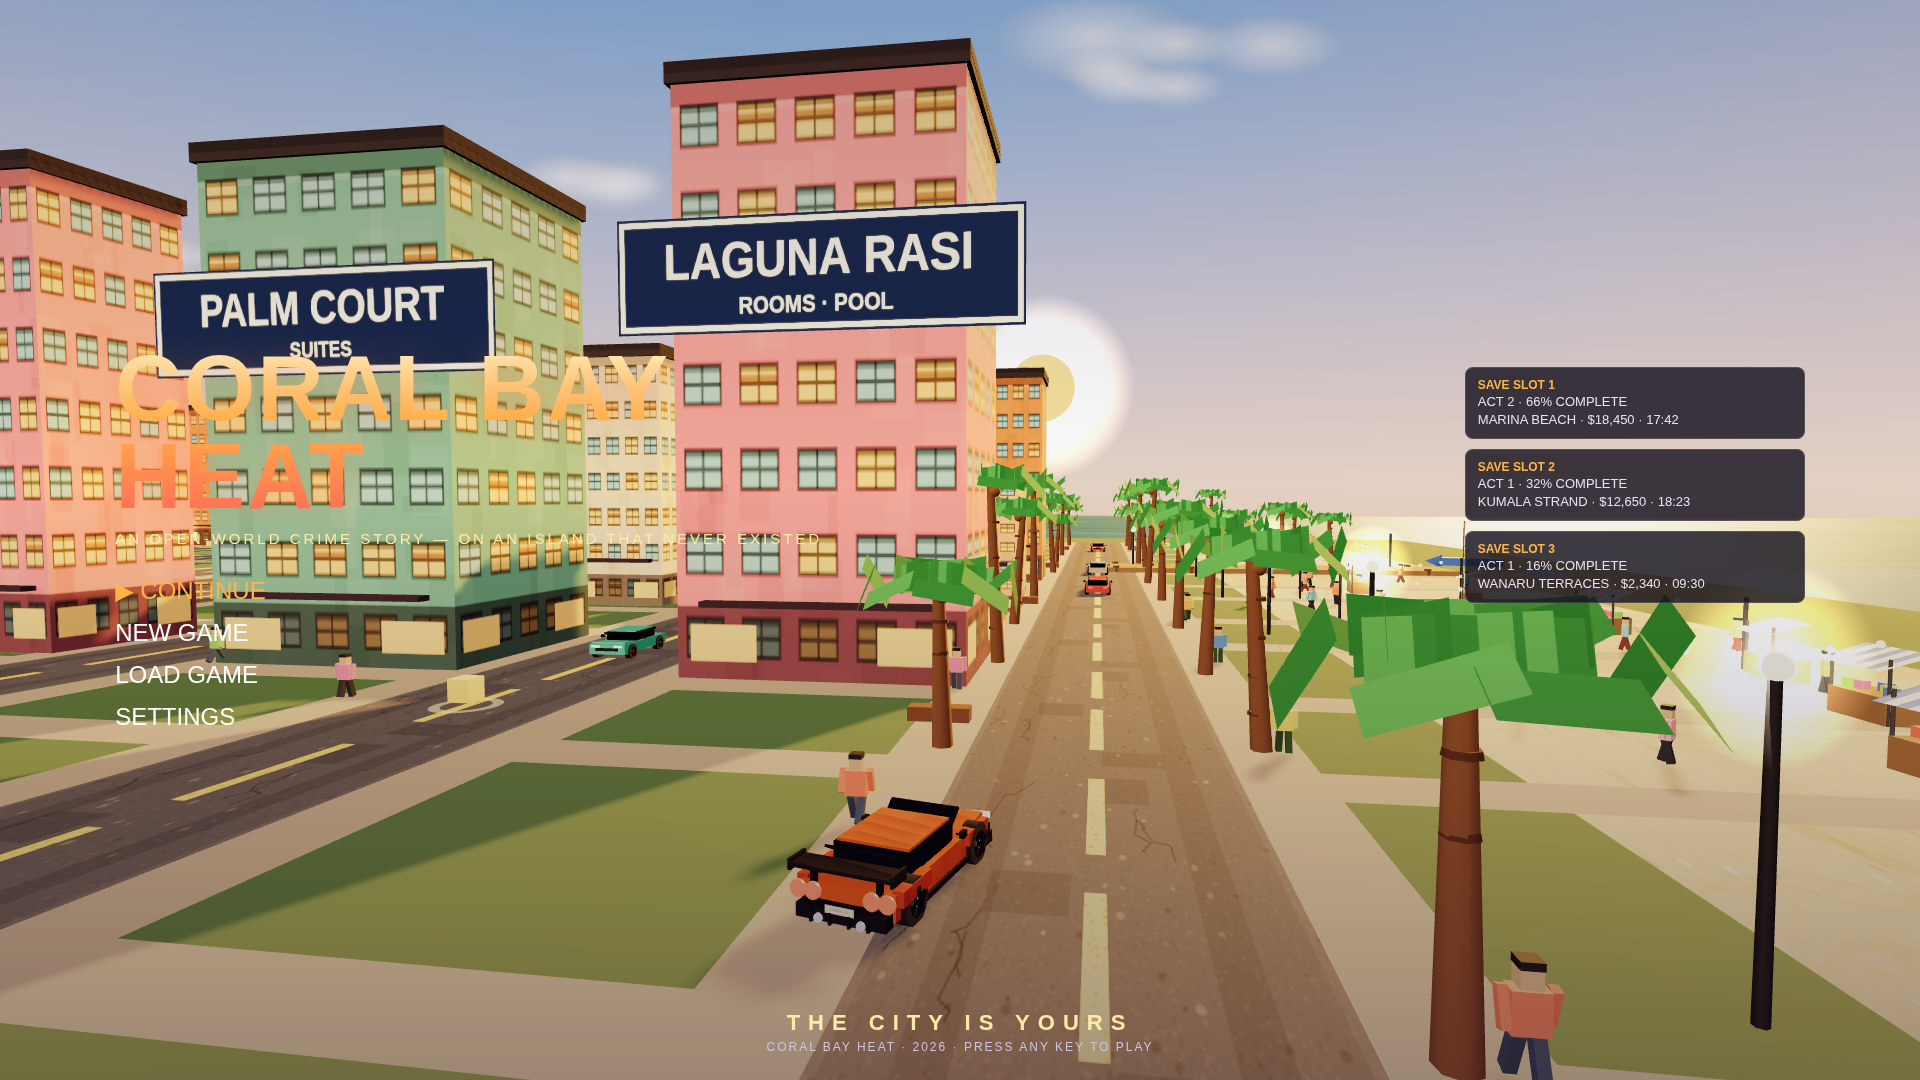
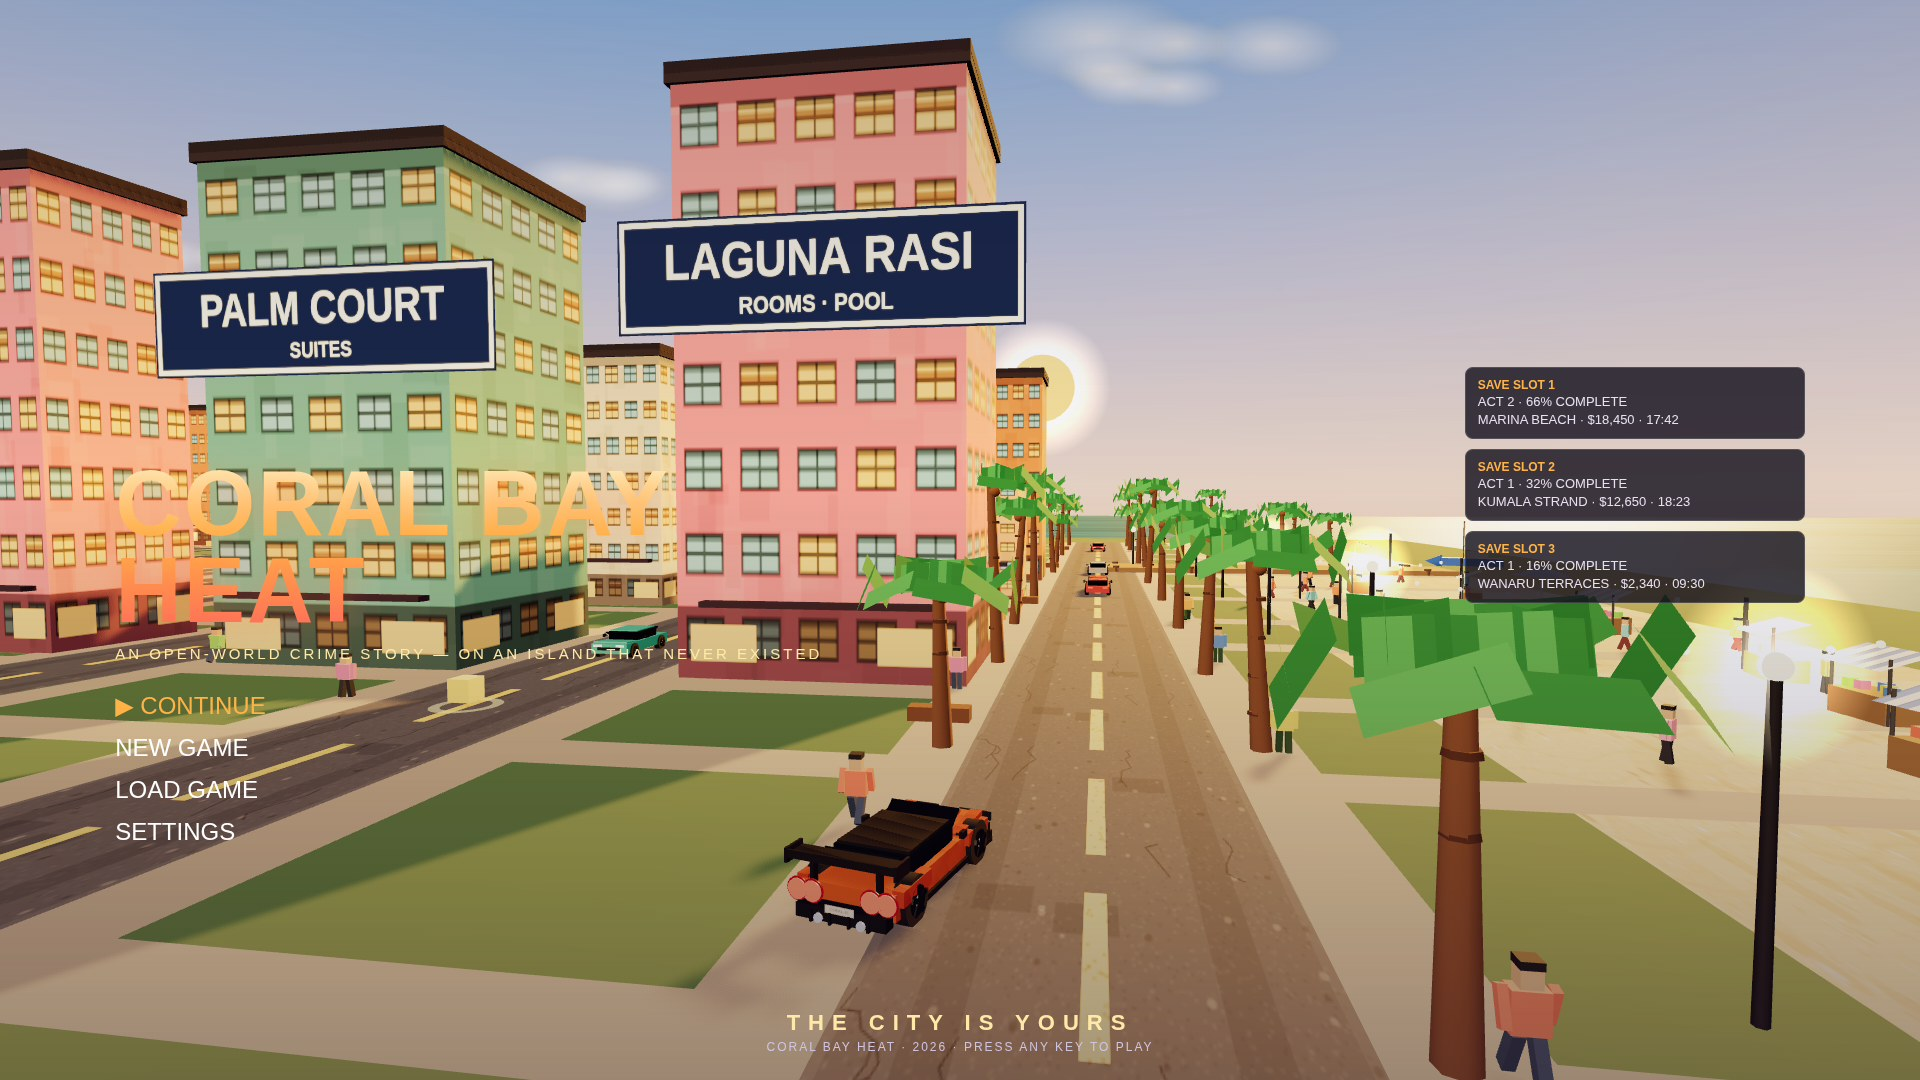
fix8: shootout exposure down, title clear of PALM COURT, GT black roof + wing, pistol/tracer visible, white Bell 206 heli

diff --git a/game/src/game.js b/game/src/game.js
@@ -184,12 +184,15 @@ export class Game {
     // plus a target ring at the impact point. A THREE.Line is one
     // pixel wide and reads as nothing at 1920 px; a beam with a
     // visible width and a ring at the end reads as a shot fired.
+    // Round 8: the beam is thicker still (core 0.22, glow 0.55)
+    // and the flash is bigger (2.2 m) — in fix7 the frame was
+    // captured mid-washout and the shot read as nothing at all.
     // The cylinders are unit height along Y and get scaled and
     // aimed from the muzzle to the impact point each time shoot()
     // fires; the group keeps the same .visible / timer interface
     // the update loop and the playtest already rely on.
     this.flash = new THREE.Mesh(
-      new THREE.PlaneGeometry(1.5, 1.5),
+      new THREE.PlaneGeometry(2.2, 2.2),
       new THREE.MeshBasicMaterial({
         map: glowTexture('rgba(255,250,200,1)', 'rgba(255,180,60,0.6)'),
         transparent: true, blending: THREE.AdditiveBlending, depthWrite: false,
@@ -201,10 +204,10 @@ export class Game {
       new THREE.CylinderGeometry(r, r, 1, 10),
       new THREE.MeshBasicMaterial({ color, transparent: true, opacity, blending: THREE.AdditiveBlending, depthWrite: false }),
     );
-    const beamCore = beamPart(0.14, 0xfff6c0, 0.98);
-    const beamGlow = beamPart(0.36, 0xffd34d, 0.5);
+    const beamCore = beamPart(0.22, 0xfff6c0, 0.98);
+    const beamGlow = beamPart(0.55, 0xffd34d, 0.55);
     const targetRing = new THREE.Mesh(
-      new THREE.RingGeometry(0.4, 0.58, 24),
+      new THREE.RingGeometry(0.55, 0.78, 24),
       new THREE.MeshBasicMaterial({ color: 0xff6a2a, transparent: true, opacity: 0.95, side: THREE.DoubleSide, depthWrite: false }),
     );
     this.tracer = new THREE.Group();
@@ -226,7 +229,7 @@ export class Game {
     this.flames = new THREE.Group();
     const flameTex = flameTexture();
     const flameSets = [
-      { n: 5, w: 1.5, h: 3.4, x: 0.55, z: 0.7, tint: 0xffe14d },
+      { n: 5, w: 1.5, h: 3.4, x: 0.55, z: 0.7, tint: 0xffb81a },
       { n: 6, w: 1.8, h: 2.8, x: 0.85, z: 1.1, tint: 0xff7a1a },
       { n: 5, w: 2.1, h: 2.3, x: 1.1, z: 1.4, tint: 0xe83a10 },
     ];
@@ -267,14 +270,17 @@ export class Game {
       new THREE.PlaneGeometry(9, 9),
       new THREE.MeshBasicMaterial({
         map: glowTexture('rgba(255,200,90,0.95)', 'rgba(255,110,20,0.4)'),
-        transparent: true, blending: THREE.AdditiveBlending, depthWrite: false,
+        transparent: true, opacity: 0.5, blending: THREE.AdditiveBlending, depthWrite: false,
       }),
     );
     fireGlow.rotation.x = -Math.PI / 2;
     fireGlow.position.y = 0.4;
     this.flames.add(fireGlow);
-    // an orange light that flickers with the fire and lights the Ranger
-    const fireLight = new THREE.PointLight(0xff7a1a, 80, 22, 1.5);
+    // an orange light that flickers with the fire and lights the Ranger.
+    // Intensity 45, not 80: at 80 the fire's light + glow + the beam
+    // pool + the bright sand stacked into a white washout in the
+    // shootout — the fire should light the scene, not erase it.
+    const fireLight = new THREE.PointLight(0xff7a1a, 45, 22, 1.5);
     fireLight.position.set(0, 2.2, 0.4);
     this.flames.add(fireLight);
     this.flames.userData.fireLight = fireLight;
@@ -509,7 +515,12 @@ export class Game {
     }
     if (this.tracerTimer > 0) {
       this.tracerTimer -= dt;
-      if (this.tracerTimer <= 0) { this.tracer.visible = false; this.flash.visible = false; }
+      // holdTracer: the staged shootout shot freezes one shot in the
+      // air for the capture — the loop must NOT fade it, and
+      // _autoFight must NOT re-fire over it (see placeShootoutScene).
+      // Only the staged shot sets this flag; normal play and the
+      // playtest never touch it, so their tracer timing is unchanged.
+      if (this.tracerTimer <= 0 && !this.holdTracer) { this.tracer.visible = false; this.flash.visible = false; }
     }
     // state snapshot for the playtest
     const pos = this.vehicle === 'boat' ? this.boat : this.vehicle === 'foot' ? this.foot : this.car;
@@ -1069,6 +1080,12 @@ export class Game {
         this.damage(1, true);
       }
     }
+    // holdTracer: the staged shootout shot already froze one shot in
+    // the air for the capture — do NOT re-fire over it, or shoot()
+    // resets tracerTimer to 0.09 and the frozen shot fades before
+    // the frame is taken (that is why fix7's shootout showed no
+    // tracer, pistol or flash at all).
+    if (this.holdTracer) return;
     if (this.fightTimer <= 0) {
       this.fightTimer = 0.55;
       this.shoot(best);
@@ -1403,20 +1420,31 @@ export class Game {
       [[106, -14], [106, 6], [106, -2], [106, 16]],
       [[112, -16], [120, -14], [126, -12], [104, 20], [130, 20], [128, 2], [116, -20], [124, 20]],
     );
-    // freeze one shot in the air: aim at the nearest officer, fire, then
-    // hold the tracer + muzzle flash on for the capture — the loop would
-    // fade them in 0.09 s otherwise, and the frame would show no shot
+    // freeze one shot in the air: aim at the officer most directly
+    // AHEAD of the player (smallest |dx|, not the nearest) and fire,
+    // then hold the tracer + muzzle flash on for the capture — the
+    // loop would fade them in 0.09 s otherwise, and the frame would
+    // show no shot. The nearest officer is (123, 1), off to the
+    // player's right — aiming at him sent the tracer sideways across
+    // the frame to the edge, so fix8's shot read as a white bar, not
+    // a shot fired into the scene. The officer at (119, -7) is
+    // straight ahead, so the beam goes forward into the frame and
+    // the muzzle flash sits by the player's gun, both readable.
+    // holdTracer pins them on AND stops _autoFight re-firing over the
+    // frozen shot during the settle frames (each re-fire reset the
+    // timer to 0.09 s, so fix7's capture showed no shot at all).
     const alive = this.officers.filter((o) => !o.down && o.mesh.visible);
     if (alive.length) {
       let best = alive[0], bd = Infinity;
       for (const o of alive) {
-        const d = Math.hypot(o.x - this.foot.x, o.z - this.foot.z);
+        const d = Math.abs(o.x - this.foot.x);
         if (d < bd) { bd = d; best = o; }
       }
       this.foot.heading = Math.atan2(best.x - this.foot.x, best.z - this.foot.z);
       this.playerMesh.rotation.y = this.foot.heading;
       this.shoot(best);
       this.tracerTimer = 3600;
+      this.holdTracer = true;
     }
     // heli high over the officers, beam down among them — its whole
     // body in clean sky in the top of the frame, not tangled in palm

diff --git a/game/src/cars.js b/game/src/cars.js
@@ -183,9 +183,15 @@ export function makeHeroCar() {
   // lower body: long, low, wide — the GT stance
   g.add(box(2.0, 0.5, 4.4, orange, 0, 0.55, 0));
   // sloped hood, falling toward the nose, with a power bulge down
-  // the centre so the hood has shape instead of a flat slab
+  // the centre so the hood has shape instead of a flat slab.
+  // Round 8: the bulge is wider and taller, and fender bulges run
+  // down each hood edge — the flat slab hood is what made the car
+  // read as a wedge from the front. Sculpted fenders + a raised
+  // centre give the nose the GT-R's muscular shape.
   g.add(box(1.9, 0.08, 1.3, orange, 0, 0.84, 1.5, -0.1));
-  g.add(box(0.85, 0.07, 1.0, orange, 0, 0.9, 1.45, -0.1));
+  g.add(box(1.0, 0.1, 1.0, orange, 0, 0.92, 1.45, -0.1));
+  g.add(box(0.28, 0.09, 1.25, orangeDark, -0.82, 0.88, 1.5, -0.1));
+  g.add(box(0.28, 0.09, 1.25, orangeDark, 0.82, 0.88, 1.5, -0.1));
   // nose / front bumper with a black lower splitter
   g.add(box(2.05, 0.32, 0.4, orange, 0, 0.42, 2.25));
   g.add(box(2.1, 0.1, 0.5, dark, 0, 0.22, 2.28));
@@ -196,10 +202,14 @@ export function makeHeroCar() {
   g.add(box(1.5, 0.2, 0.06, dark, 0, 0.58, 2.46));
   g.add(box(1.7, 0.12, 0.06, dark, 0, 0.34, 2.46));
   // angular swept headlights: wide, bright, angled back toward the
-  // fenders like the real GT-R's — not flat white rectangles
-  const hlL = lamp(0.68, 0.14, 0.06, 0xfff2c0, -0.66, 0.76, 2.46);
+  // fenders like the real GT-R's — not flat white rectangles. Each
+  // sits in a black bezel so the light reads as an inset lamp, not
+  // a white blob pasted on the nose.
+  g.add(box(0.78, 0.2, 0.04, dark, -0.66, 0.76, 2.44));
+  g.add(box(0.78, 0.2, 0.04, dark, 0.66, 0.76, 2.44));
+  const hlL = lamp(0.68, 0.14, 0.06, 0xfff2c0, -0.66, 0.76, 2.47);
   hlL.rotation.y = 0.18;
-  const hlR = lamp(0.68, 0.14, 0.06, 0xfff2c0, 0.66, 0.76, 2.46);
+  const hlR = lamp(0.68, 0.14, 0.06, 0xfff2c0, 0.66, 0.76, 2.47);
   hlR.rotation.y = -0.18;
   g.add(hlL, hlR);
   // LED daytime strips under the headlights
@@ -215,28 +225,40 @@ export function makeHeroCar() {
   g.add(box(0.24, 0.3, 1.2, orangeDark, -1.02, 0.72, -1.55));
   g.add(box(0.24, 0.3, 1.2, orangeDark, 1.02, 0.72, -1.55));
   // cabin: glasshouse set back, lower and sleeker than a box — a
-  // sloped windshield and rear glass so the roofline falls away
-  const cabin = new THREE.Mesh(new THREE.BoxGeometry(1.7, 0.46, 2.0), glass);
-  cabin.position.set(0, 1.0, -0.3);
+  // sloped windshield and rear glass so the roofline falls away.
+  // Round 8: the cabin is lower (0.40, not 0.46) and the roof panel
+  // is BLACK, like the real GT-R in the reference photo — the tall
+  // orange slab roof is what made the car read as a wedge from the
+  // front. A black roof + lower glasshouse slims the whole car.
+  const cabin = new THREE.Mesh(new THREE.BoxGeometry(1.7, 0.4, 2.0), glass);
+  cabin.position.set(0, 0.98, -0.3);
   cabin.castShadow = true;
   g.add(cabin);
-  g.add(box(1.6, 0.06, 1.9, orange, 0, 1.26, -0.3)); // roof panel
-  g.add(box(1.62, 0.05, 0.9, glass, 0, 1.08, 0.78, -0.62)); // windshield
-  g.add(box(1.62, 0.05, 0.85, glass, 0, 1.08, -1.32, 0.5)); // rear glass
-  g.add(box(0.04, 0.36, 1.6, glass, -0.86, 1.0, -0.3)); // side glass L
-  g.add(box(0.04, 0.36, 1.6, glass, 0.86, 1.0, -0.3)); // side glass R
-  // BIG rear wing on two struts, with endplates — the GT-R signature
-  g.add(box(0.08, 0.38, 0.16, dark, -0.7, 0.98, -2.25));
-  g.add(box(0.08, 0.38, 0.16, dark, 0.7, 0.98, -2.25));
-  g.add(box(2.15, 0.07, 0.55, dark, 0, 1.18, -2.25));
-  g.add(box(0.06, 0.22, 0.55, dark, -1.08, 1.18, -2.25));
-  g.add(box(0.06, 0.22, 0.55, dark, 1.08, 1.18, -2.25));
+  g.add(box(1.6, 0.06, 1.9, dark, 0, 1.21, -0.3)); // black roof panel
+  g.add(box(1.62, 0.05, 0.9, glass, 0, 1.05, 0.78, -0.62)); // windshield
+  g.add(box(1.62, 0.05, 0.85, glass, 0, 1.05, -1.32, 0.5)); // rear glass
+  g.add(box(0.04, 0.32, 1.6, glass, -0.86, 0.98, -0.3)); // side glass L
+  g.add(box(0.04, 0.32, 1.6, glass, 0.86, 0.98, -0.3)); // side glass R
+  // BIG rear wing on two tall struts, with endplates and a gurney
+  // flap — the GT-R signature, and the reference photo's wing is
+  // tall and wide, standing clear above the decklid. Round 8: the
+  // struts are taller (0.52) and the wing wider (2.3 m) so it reads
+  // as a real GT wing from every angle, not a flat shelf.
+  g.add(box(0.08, 0.52, 0.16, dark, -0.7, 1.06, -2.25));
+  g.add(box(0.08, 0.52, 0.16, dark, 0.7, 1.06, -2.25));
+  g.add(box(2.3, 0.07, 0.55, dark, 0, 1.34, -2.25));
+  g.add(box(0.06, 0.28, 0.55, dark, -1.15, 1.34, -2.25));
+  g.add(box(0.06, 0.28, 0.55, dark, 1.15, 1.34, -2.25));
+  g.add(box(2.3, 0.12, 0.04, dark, 0, 1.4, -2.5)); // gurney flap
   // QUAD ROUND taillights — two on each side, like the real GT-R.
   // Big and bright red so they read even from far down the boulevard.
-  g.add(roundLamp(0.17, 0.07, 0xff2a2a, -0.62, 0.72, -2.42));
-  g.add(roundLamp(0.17, 0.07, 0xff2a2a, -0.94, 0.72, -2.42));
-  g.add(roundLamp(0.17, 0.07, 0xff2a2a, 0.62, 0.72, -2.42));
-  g.add(roundLamp(0.17, 0.07, 0xff2a2a, 0.94, 0.72, -2.42));
+  // Round 8: bigger (0.2) with a dark-red ring disc behind each lamp,
+  // like the reference photo's ringed lights — the ring is what makes
+  // them read as GT-R lights instead of plain red dots.
+  for (const tx of [-0.62, -0.94, 0.62, 0.94]) {
+    g.add(roundLamp(0.23, 0.03, 0x6e0a0a, tx, 0.72, -2.43));
+    g.add(roundLamp(0.2, 0.07, 0xff2a2a, tx, 0.72, -2.44));
+  }
   // rear diffuser with vertical fins + twin exhausts
   g.add(box(1.9, 0.26, 0.3, dark, 0, 0.35, -2.35));
   for (const fx of [-0.6, -0.2, 0.2, 0.6]) g.add(box(0.05, 0.22, 0.34, dark, fx, 0.3, -2.38));
@@ -256,11 +278,13 @@ export function makeHeroCar() {
   plate.rotation.y = Math.PI;
   g.add(plate);
   // big black wheels with bright hubs — large enough to fill the
-  // arches, so the car sits on its wheels instead of floating
+  // arches, so the car sits on its wheels instead of floating.
+  // Round 8: 0.48, not 0.46 — the bigger wheel fills the flared
+  // arches and drops the stance, like the reference photo.
   const wheels = [];
   for (const [wx, wz] of [[-0.96, 1.55], [0.96, 1.55], [-0.96, -1.55], [0.96, -1.55]]) {
-    const w = wheel(0.46, 0.32, wx > 0 ? 1 : -1, 0x14141a, 0xd8dde2);
-    w.position.set(wx, 0.46, wz);
+    const w = wheel(0.48, 0.32, wx > 0 ? 1 : -1, 0x14141a, 0xd8dde2);
+    w.position.set(wx, 0.48, wz);
     g.add(w);
     wheels.push(w);
   }

diff --git a/game/src/heli.js b/game/src/heli.js
@@ -39,7 +39,7 @@ export function makeHeli() {
   const white = std(0xf8f8f4, 0.3, 0.25);
   const navy = std(0x1c3a6e, 0.4, 0.3);
   const dark = std(0x1a1a22, 0.5, 0.4);
-  const glassMat = new THREE.MeshStandardMaterial({ color: 0x0c141c, roughness: 0.05, metalness: 0.9 });
+  const glassMat = new THREE.MeshStandardMaterial({ color: 0x24344a, roughness: 0.08, metalness: 0.55 });
 
   // cabin: a white rounded egg — a sphere stretched long and squashed
   // flat, so it reads as a helicopter cabin, never a cylinder
@@ -77,8 +77,12 @@ export function makeHeli() {
   const stripeR = stripeL.clone();
   stripeR.position.x = 0.84;
   g.add(stripeL, stripeR);
-  // navy belly
-  const belly = new THREE.Mesh(new THREE.BoxGeometry(1.0, 0.18, 2.4), navy);
+  // navy belly — WHITE on the real Bell 206, so the aircraft reads
+  // white from below instead of a dark silhouette: the underside is
+  // what the cover and shootout cameras see, and a navy belly turns
+  // the whole heli into a black blob against the sky. The navy
+  // cheatline stripes on the sides keep the police two-tone.
+  const belly = new THREE.Mesh(new THREE.BoxGeometry(1.0, 0.18, 2.4), white);
   belly.position.set(0, -0.62, 0.35);
   g.add(belly);
   // tapered tail cone: the cabin narrows into the boom
@@ -173,24 +177,30 @@ export function makeHeli() {
   // The cone's apex is translated to the origin, so the beam pivots
   // at the searchlight ball under the nose and its wide base lands
   // on the beam target — it reads as a searchlight aimed at someone,
-  // not a faint cone hanging under the heli. Bright enough to see.
+  // not a faint cone hanging under the heli. Bright enough to see,
+  // dim enough not to white out the ground it lands on: at 0.16 the
+  // shaft + pool stacked into a white washout in the shootout.
   const beamGeo = new THREE.ConeGeometry(2.2, 26, 16, 1, true);
   beamGeo.translate(0, -13, 0);
   const beam = new THREE.Mesh(
     beamGeo,
     new THREE.MeshBasicMaterial({
-      color: 0xfff2b0, transparent: true, opacity: 0.16,
+      color: 0xfff2b0, transparent: true, opacity: 0.1,
       blending: THREE.AdditiveBlending, side: THREE.DoubleSide, depthWrite: false,
     }),
   );
   beam.position.set(0, -0.72, 1.35);
   g.add(beam);
-  // light pool: a warm glow disc that sits on the ground under the beam
+  // light pool: a warm glow disc that sits on the ground under the beam.
+  // Smaller (12 m, not 16) and dimmer (0.55, not 1.0): at full opacity
+  // the pool stacked with the beam shaft and the bright sand into one
+  // white washout in the shootout — the pool should mark the target,
+  // not erase the ground under him.
   const pool = new THREE.Mesh(
-    new THREE.PlaneGeometry(16, 16),
+    new THREE.PlaneGeometry(12, 12),
     new THREE.MeshBasicMaterial({
       map: glowTexture('rgba(255,240,180,0.95)', 'rgba(255,200,90,0.4)'),
-      transparent: true, opacity: 1.0, blending: THREE.AdditiveBlending, depthWrite: false,
+      transparent: true, opacity: 0.55, blending: THREE.AdditiveBlending, depthWrite: false,
     }),
   );
   pool.rotation.x = -Math.PI / 2;

diff --git a/game/src/people.js b/game/src/people.js
@@ -99,11 +99,13 @@ export function stepWalk(person, dt, moving) {
 // glance — this is the weapon Egi asked to see. The slide is bright
 // light-grey with LOW metalness: a high-metalness silver renders
 // almost black in a scene with no environment map, which is why the
-// old gun vanished against the sand.
+// old gun vanished against the sand. Round 8: the silver is hotter
+// (emissive 1.4) and the gun is scaled up at the player/officer, so
+// it reads even in a bright frame.
 function pistol() {
   const g = new THREE.Group();
   const dark = new THREE.MeshStandardMaterial({ color: 0x1c1c22, roughness: 0.5, metalness: 0.4 });
-  const silver = new THREE.MeshStandardMaterial({ color: 0xe8ecf0, roughness: 0.25, metalness: 0.25, emissive: 0x3a3a3e, emissiveIntensity: 0.9 });
+  const silver = new THREE.MeshStandardMaterial({ color: 0xe8ecf0, roughness: 0.25, metalness: 0.25, emissive: 0x55555c, emissiveIntensity: 1.4 });
   const grip = new THREE.Mesh(new THREE.BoxGeometry(0.11, 0.26, 0.14), dark);
   grip.position.set(0, 0, 0);
   grip.castShadow = true;
@@ -127,11 +129,16 @@ function pistol() {
 export function makePlayer() {
   const g = makeWalker({ float: () => 0 }, 0xd21f1f, 0x1c1c22);
   // the gun rides at her right hand, forward and high, bright metal
-  // — BIG (1.6x) so it reads at a glance from the shootout camera
+  // — BIG (3.0x) so it reads at a glance from the shootout camera,
+  // pushed well out past her right shoulder (x 0.55) and angled
+  // hard across her body (rotation -0.55) so the long silver slide
+  // shows its SIDE to the behind-camera — a forward-pointing gun
+  // seen end-on is a speck, and in fix8 it hid behind her torso.
+  // The angled slide is what makes the weapon read as a pistol.
   const gun = pistol();
-  gun.scale.setScalar(1.6);
-  gun.position.set(0.3, 1.16, 0.5);
-  gun.rotation.y = -0.12;
+  gun.scale.setScalar(3.0);
+  gun.position.set(0.55, 1.22, 0.6);
+  gun.rotation.y = -0.55;
   g.add(gun);
   // a lighter red chest panel so the jacket reads as a jacket, not a slab
   const chest = limb(0.4, 0.4, 0.04, 0xe83a3a, 0, 1.12, 0.16);
@@ -174,10 +181,10 @@ export function makeOfficer() {
   legL.geometry.translate(0, -0.3, 0);
   legR.geometry.translate(0, -0.3, 0);
   // the officer's pistol, held out at his right hand in the aim pose
-  // — BIG (1.4x) so the weapon reads, not a speck of grey
+  // — BIG (1.8x) so the weapon reads, not a speck of grey
   const gun = pistol();
-  gun.scale.setScalar(1.4);
-  gun.position.set(0.3, 1.16, 0.5);
+  gun.scale.setScalar(1.8);
+  gun.position.set(0.34, 1.18, 0.52);
   gun.rotation.y = -0.12;
   // red marker: a tall downward cone that bobs above the head
   const marker = new THREE.Mesh(

diff --git a/game/src/shots.js b/game/src/shots.js
@@ -78,12 +78,18 @@ function stageShootout(game) {
   // centre, back to camera, gun out; the three officers, the fallen
   // officer and the blood pool, and the burning van are ahead of
   // him; the heli hangs in clean sky above with its beam down.
+  // Round 8: the exposure drops to 1.6 for this shot only (each
+  // capture is a fresh page, so the other shots keep 2.15). At 2.15
+  // the sand + beam pool + flames + sun halo stacked into one white
+  // blown-out blob in the centre — at 1.6 the sand, the flames, the
+  // beam pool and the characters read as distinct elements.
   game.startPlay();
   game.setMission(3);
   game.setStep(1);
   game.setCash(18450);
   game.setClock(DUSK);
   game.setWanted(3);
+  game.renderer.toneMappingExposure = 1.6;
   game.placeShootoutScene();
   frameShot(game, 'shootout', true, false, false);
   game.hud.setDialogue('MARA VOSS · FIXER', 'Three stars and the whole beach is crawling with CBPD — hold the line, then vanish before backup lands.');

diff --git a/game/index.html b/game/index.html
@@ -81,7 +81,7 @@
   #dlg-text { font-size: 13.5px; color: #fff; font-style: italic; }
   /* ---- overlays ---- */
   .screen { position: fixed; inset: 0; display: none; z-index: 10; }
-  #title-screen { flex-direction: column; justify-content: center; padding: 0 6%;
+  #title-screen { flex-direction: column; justify-content: flex-end; padding: 0 6% 12%;
     background: linear-gradient(180deg, rgba(20,8,40,0.18) 0%, rgba(20,8,40,0.02) 45%, rgba(20,8,40,0.38) 100%); }
   #title-screen h1 { font-size: 92px; line-height: 0.95; font-weight: 900; letter-spacing: 2px;
     background: linear-gradient(180deg, #fff3c4 0%, #ffb347 45%, #ff6a5e 100%);

diff --git a/game/src/city.js b/game/src/city.js
@@ -75,7 +75,7 @@ export function buildCity(scene, seed = 1) {
   // (80 m, faint outer falloff) keeps a hard edge even from 500 m
   // away. The clouds are bright white, soft and small, high up —
   // they break the gradient and make the sky read as a sunny day.
-  const SUN = { x: 60, y: 78, discR: 21, discColor: 0xffb347, haloSize: 120, haloFade: 0.4 };
+  const SUN = { x: 60, y: 78, discR: 21, discColor: 0xffb347, haloSize: 90, haloFade: 0.25 };
   const sky = new THREE.Mesh(
     new THREE.SphereGeometry(700, 24, 16),
     new THREE.MeshBasicMaterial({ map: skyTexture(), side: THREE.BackSide, fog: false }),
